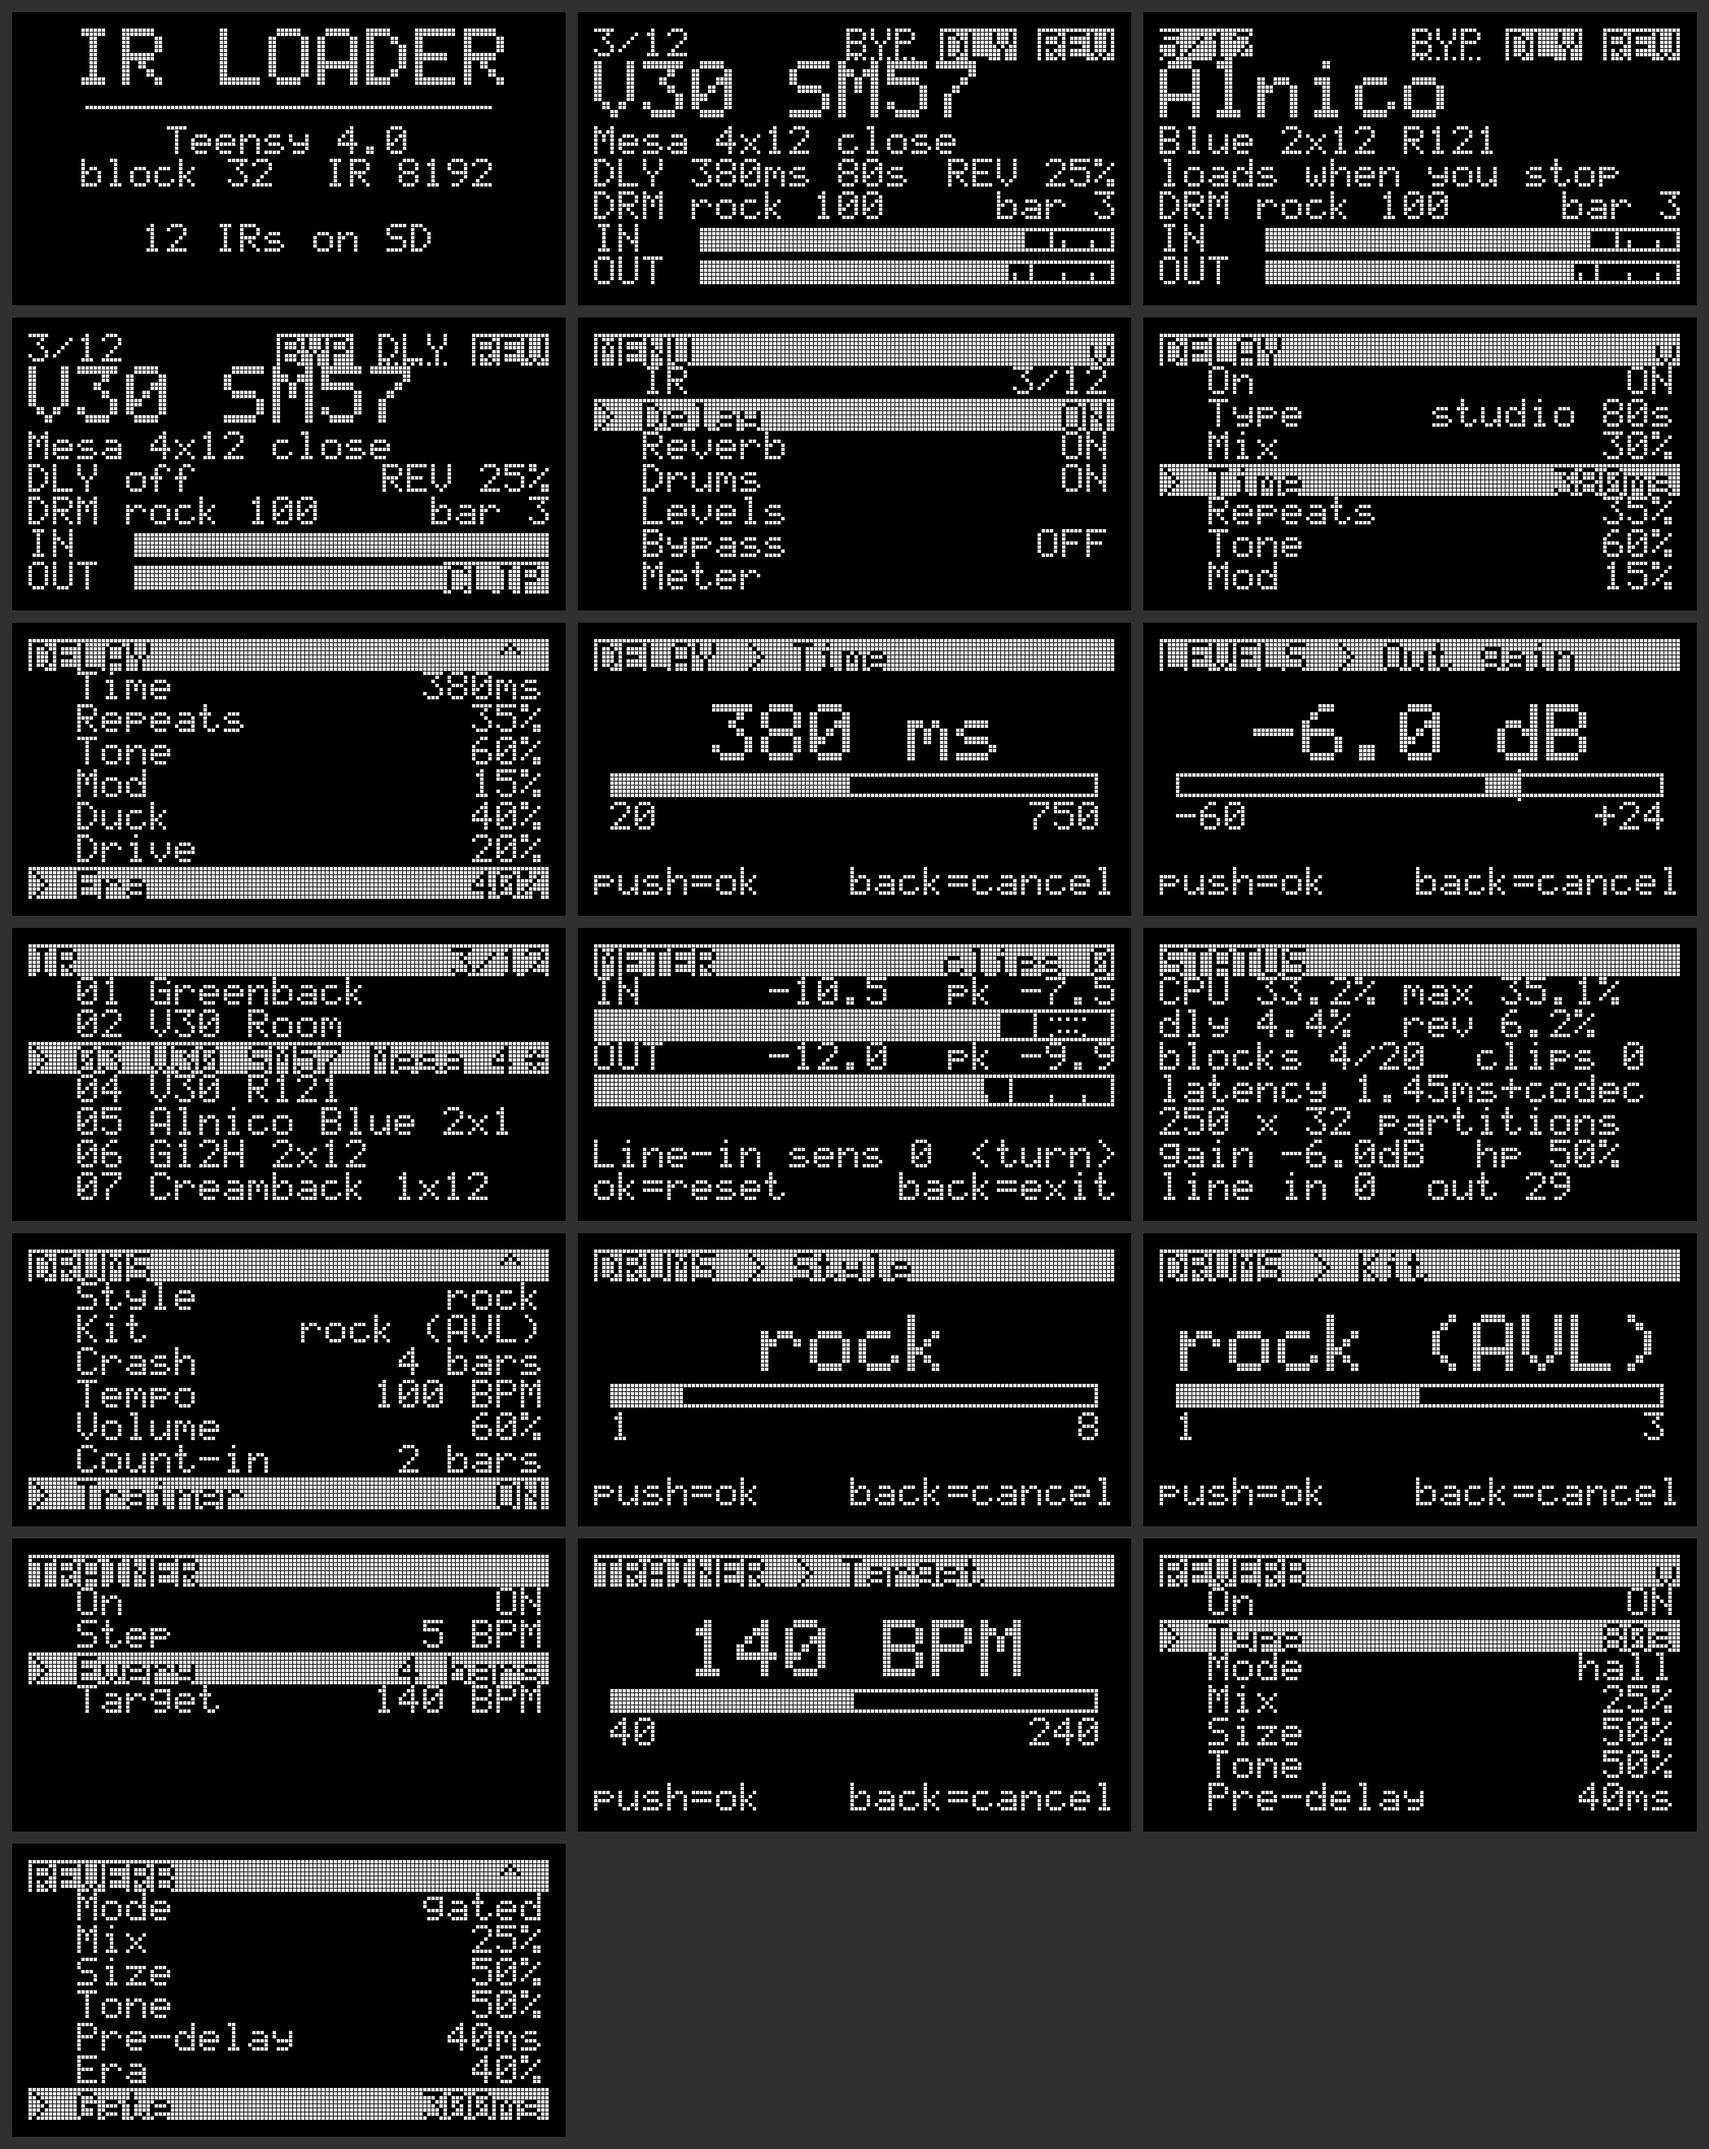
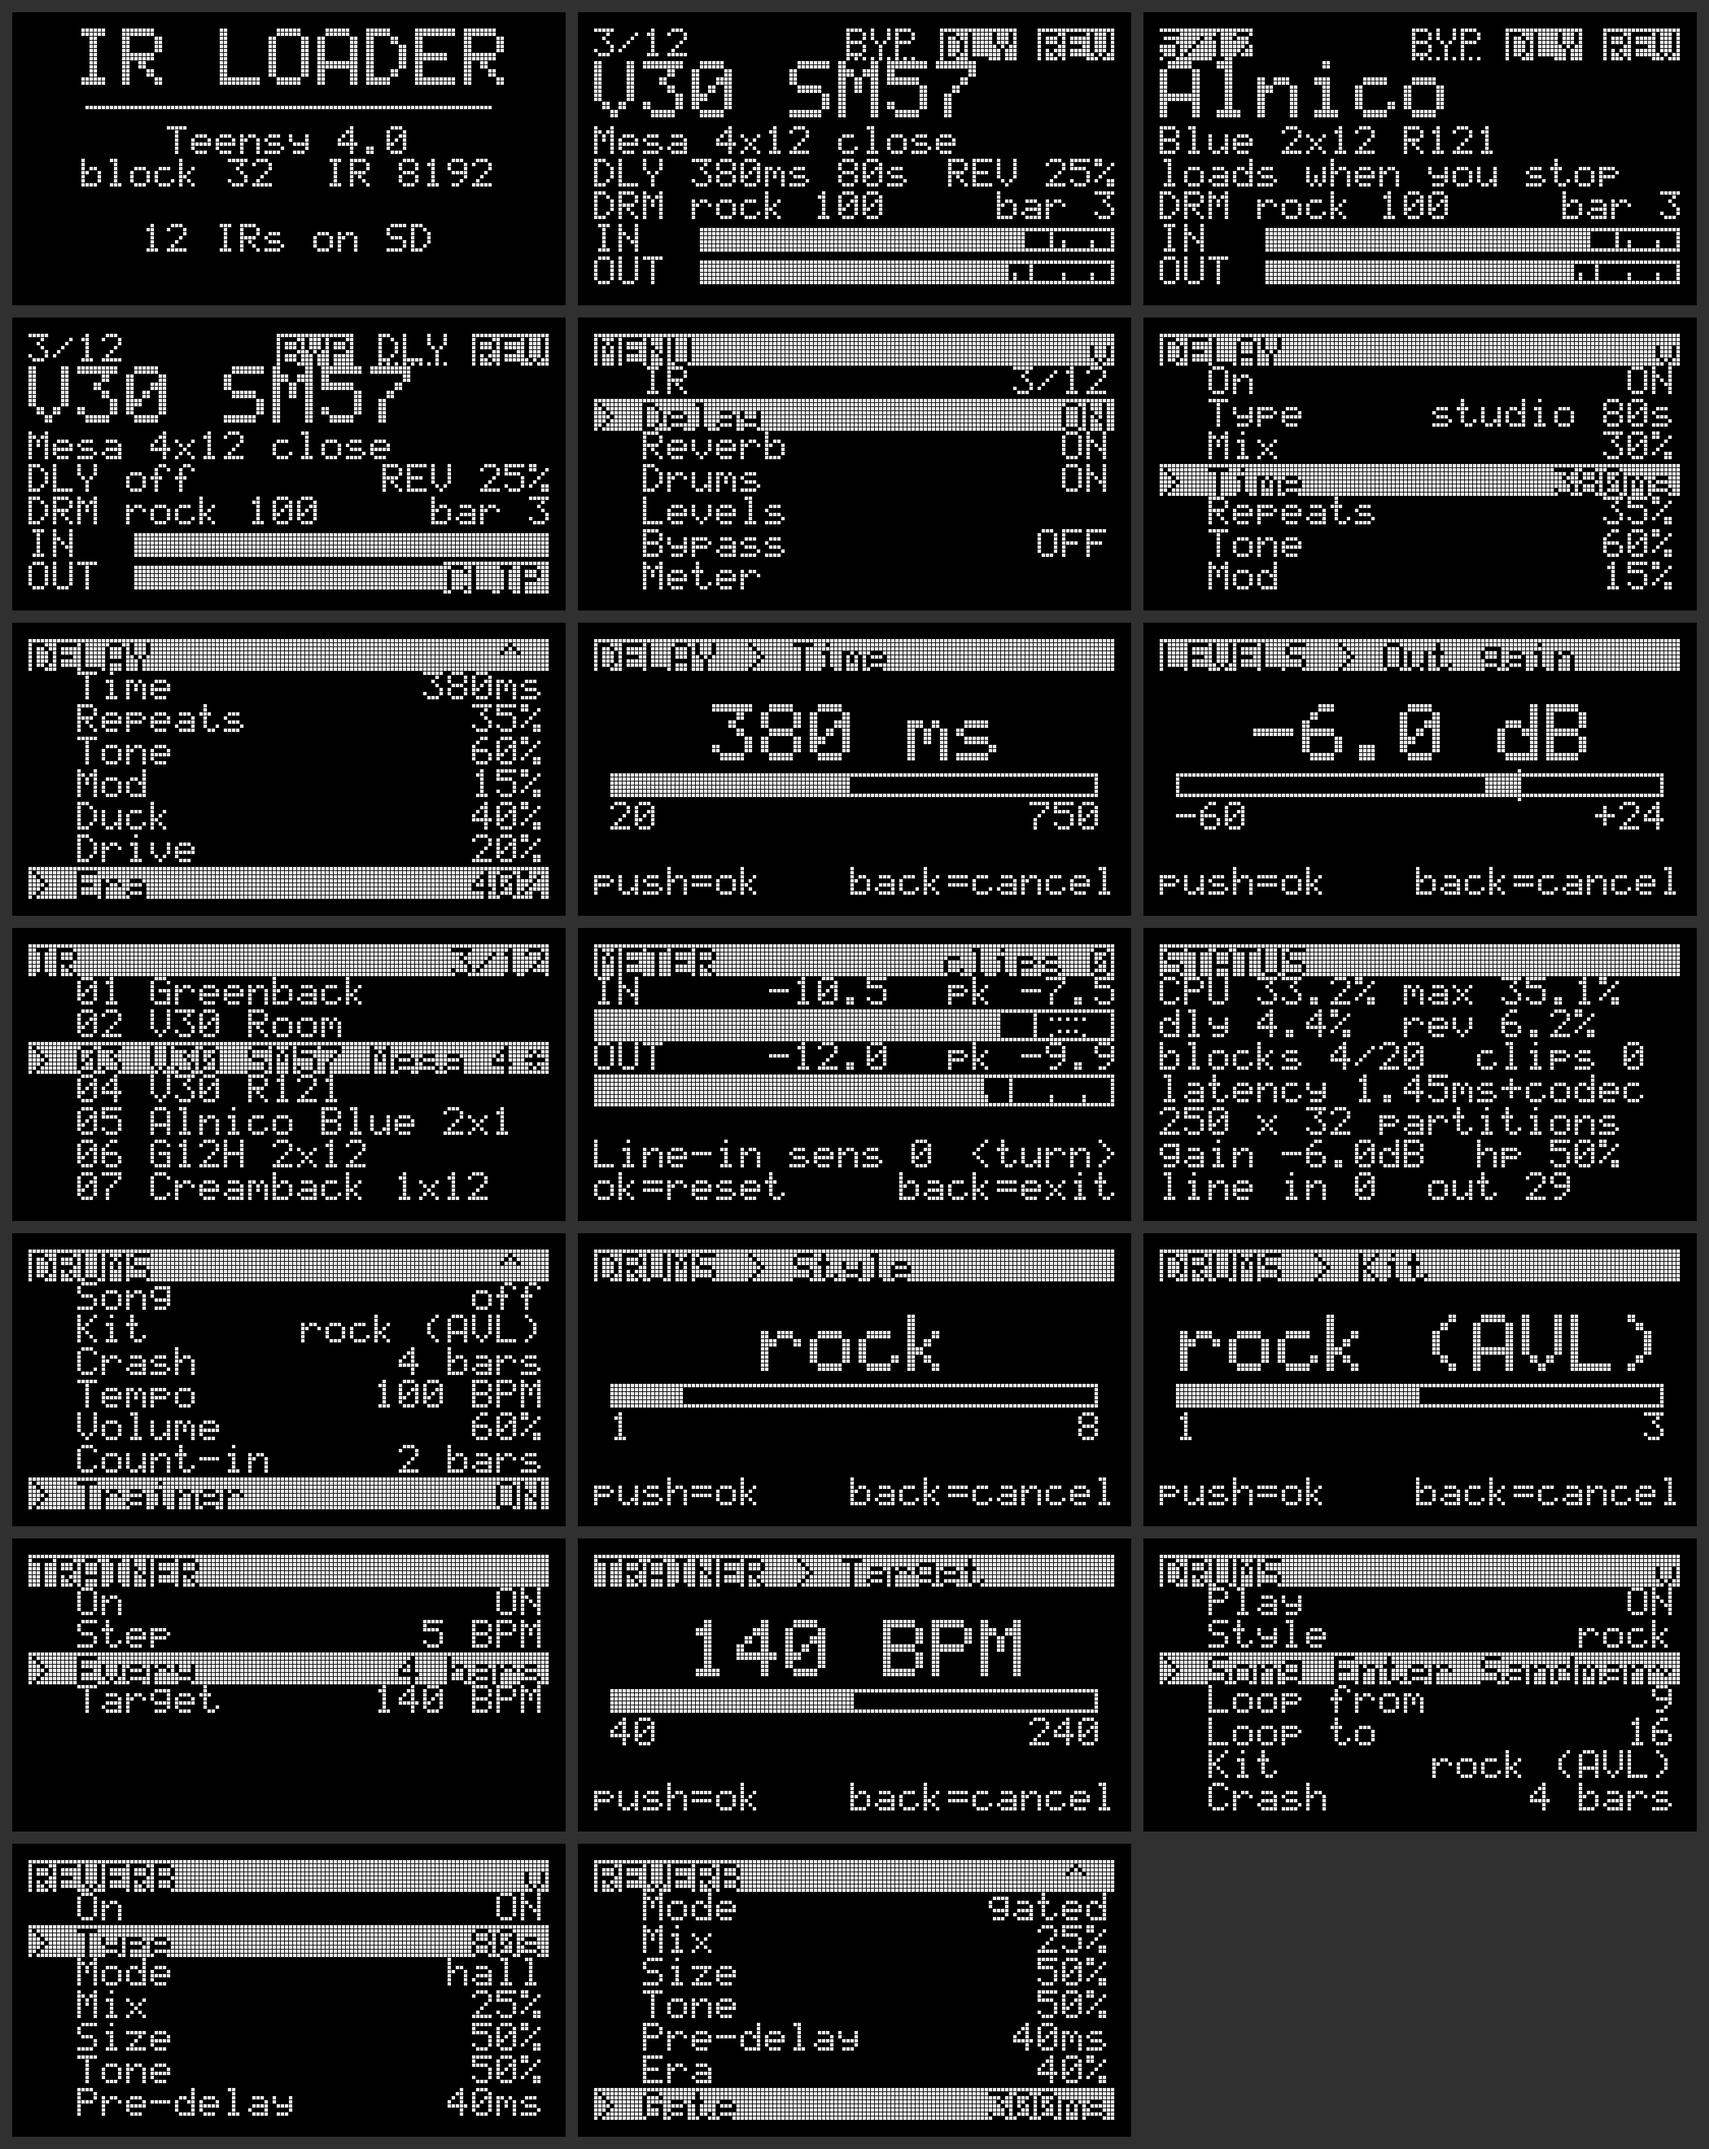
Add Song and Loop rows to the OLED Drums page
Song (off or a song, by name) after Style; Loop from / to (bars, from 0 =
off) shown only while a song is selected. List values too long for the
space after their label are cut short with a '~' (the editor shows them
in full). UI tests and render 19_menu_drums_song.

Changed region(s): [[0.0, 0.8438, 0.681, 1.0], [0.681, 0.7188, 0.9905, 0.8438]]

diff --git a/test/host/ui_fake.h b/test/host/ui_fake.h
@@ -18,6 +18,7 @@ struct FakeHost : ui::MenuHost {
     v[ui::kReverbOn] = 1; v[ui::kReverbMix] = 25; v[ui::kReverbSize] = 50; v[ui::kReverbTone] = 50;
     v[ui::kReverbType] = 1; v[ui::kReverbMode] = 0; v[ui::kReverbPreDelay] = 40; v[ui::kReverbMod] = 40;
     v[ui::kReverbEra] = 40; v[ui::kReverbGate] = 300;
+    v[ui::kDrumSong] = 0; v[ui::kDrumLoopFrom] = 0; v[ui::kDrumLoopTo] = 32;
     v[ui::kOutGain] = -12; v[ui::kLineIn] = 0; v[ui::kLineOut] = 29; v[ui::kHeadphones] = 50;
     v[ui::kDrumsPlay] = 1; v[ui::kDrumStyle] = 1; v[ui::kDrumTempo] = 100; v[ui::kDrumVolume] = 60;
     v[ui::kDrumCountIn] = 2; v[ui::kTrainerOn] = 0; v[ui::kTrainerStep] = 5; v[ui::kTrainerEvery] = 4;
@@ -28,6 +29,11 @@ struct FakeHost : ui::MenuHost {
                                   "triplets",  "pop",           "blues shuffle", "6/8 ballad"};
     return names[i < 0 || i > 7 ? 0 : i];
   }
+  static const char* songName(int i) {
+    static const char* names[] = {"off", "Back in Black-ish", "Sweet Child-ish", "Livin on a Prayer-ish",
+                                  "Enter Sandman-ish", "Smoke on Water-ish"};
+    return names[i < 0 || i > 5 ? 0 : i];
+  }
   static const char* kitName(int i) {
     static const char* names[] = {"synth", "rock (AVL)", "black pearl"};
     return names[i < 0 || i > 2 ? 0 : i];
@@ -37,6 +43,7 @@ struct FakeHost : ui::MenuHost {
     if (id == ui::kIsReverb80) return v[ui::kReverbType] == 1;
     if (id == ui::kIsReverbHall) return v[ui::kReverbType] == 1 && v[ui::kReverbMode] == 0;
     if (id == ui::kIsReverbGated) return v[ui::kReverbType] == 1 && v[ui::kReverbMode] == 1;
+    if (id == ui::kIsDrumSong) return v[ui::kDrumSong] != 0;
     return v[id];
   }
   void set(uint8_t id, int value) override { v[id] = value; sets++; }
@@ -45,11 +52,15 @@ struct FakeHost : ui::MenuHost {
     if (id == ui::kDelayTime) *hi = timeMax;
     if (id == ui::kDrumStyle) *hi = 7;
     if (id == ui::kDrumKit) *hi = 2;
+    if (id == ui::kDrumSong) *hi = 5;
+    if (id == ui::kDrumLoopFrom || id == ui::kDrumLoopTo) *hi = 32;
   }
   bool valueText(uint8_t id, char* buf, int n) override {
     if (id == ui::kScreenIR) std::snprintf(buf, n, "3/12");
     else if (id == ui::kDrumStyle) std::snprintf(buf, n, "%s", styleName(v[id]));
     else if (id == ui::kDrumKit) std::snprintf(buf, n, "%s", kitName(v[id]));
+    else if (id == ui::kDrumSong) std::snprintf(buf, n, "%s", songName(v[id]));
+    else if (id == ui::kDrumLoopFrom && v[id] == 0) std::snprintf(buf, n, "off");
     else return false;
     return true;
   }

diff --git a/lib/oledui/src/Menu.cpp b/lib/oledui/src/Menu.cpp
@@ -20,6 +20,9 @@ UI_LABEL(kLDrums, "Drums");
 UI_LABEL(kLPlay, "Play");
 UI_LABEL(kLStyle, "Style");
 UI_LABEL(kLKit, "Kit");
+UI_LABEL(kLSong, "Song");
+UI_LABEL(kLLoopFrom, "Loop from");
+UI_LABEL(kLLoopTo, "Loop to");
 UI_LABEL(kLCrash, "Crash");
 UI_LABEL(kLTempo, "Tempo");
 UI_LABEL(kLVolume, "Volume");
@@ -123,11 +126,15 @@ static const MenuItem UI_PROGMEM kLevelItems[] = {
     {kLPhones, K::kValue, kHeadphones, 0, 0, 100, 1, U::kPercent, kNoItem, nullptr},
 };
 
-// The style's and kit's range ends come from MenuHost::limits (how many
-// there are), their names from MenuHost::valueText.
+// The style's, kit's and song's range ends come from MenuHost::limits (how
+// many there are), their names from MenuHost::valueText; so do the loop's
+// bars (the song's length; "off" for from = 0).
 static const MenuItem UI_PROGMEM kDrumItems[] = {
     {kLPlay, K::kToggle, kDrumsPlay, 0, 0, 1, 1, U::kNone, kNoItem, nullptr},
     {kLStyle, K::kValue, kDrumStyle, 0, 0, 7, 1, U::kOneBased, kNoItem, nullptr},
+    {kLSong, K::kValue, kDrumSong, 0, 0, 5, 1, U::kNone, kNoItem, nullptr},
+    {kLLoopFrom, K::kValue, kDrumLoopFrom, 0, 0, 32, 1, U::kNone, kIsDrumSong, nullptr},
+    {kLLoopTo, K::kValue, kDrumLoopTo, 0, 1, 32, 1, U::kNone, kIsDrumSong, nullptr},
     {kLKit, K::kValue, kDrumKit, 0, 0, 2, 1, U::kOneBased, kNoItem, nullptr},
     {kLCrash, K::kChoice, kDrumCrash, 0, 0, 4, 1, U::kNone, kNoItem, kCrashNames},
     {kLTempo, K::kValue, kDrumTempo, 0, 40, 240, 1, U::kBpm, kNoItem, nullptr},
@@ -366,7 +373,16 @@ UI_COLD void Menu::drawList(Canvas& c) {
     } else {
       val[0] = 0;
     }
-    if (val[0]) c.textRight(Canvas::kW - 2, page, val);
+    if (val[0]) {
+      // A value too long for the space after the label is cut short with a
+      // '~' (the editor shows it in full).
+      const int room = (Canvas::kW - 2 - (12 + Canvas::width(it->label) + Canvas::kCharW)) / Canvas::kCharW;
+      if (room > 1 && (int)strlen(val) > room) {
+        val[room - 1] = '~';
+        val[room] = 0;
+      }
+      c.textRight(Canvas::kW - 2, page, val);
+    }
     if (n == lv.cursor) c.invertPage(page);
   }
 }

diff --git a/test/host/test_ui.cpp b/test/host/test_ui.cpp
@@ -136,6 +136,37 @@ static void testReverbPage() {
   check(h.v[ui::kReverbType] == 1 && m.current()->id == ui::kReverbType, "push on Type: plate -> 80s", h.v[ui::kReverbType]);
 }
 
+static void testSongRows() {
+  std::printf("Drums page: songs\n");
+  FakeHost h;
+  ui::Menu m(ui::menuPages(), h);
+  m.open();
+  m.turn(3, 0);
+  m.push();
+  m.turn(2, 0);
+  check(m.current()->id == ui::kDrumSong, "Song after Style", m.current()->id);
+  m.turn(1, 0);
+  check(m.current()->id == ui::kDrumKit, "  ... no song: the Loop rows are hidden", m.current()->id);
+  m.turn(-1, 0);
+  m.push();
+  m.turn(4, 1000);
+  m.push();
+  check(h.v[ui::kDrumSong] == 4, "  ... pick song 4 by turning", h.v[ui::kDrumSong]);
+  m.turn(1, 0);
+  check(m.current()->id == ui::kDrumLoopFrom, "  ... with a song: Loop from, Loop to", m.current()->id);
+  char b[24];
+  h.valueText(ui::kDrumLoopFrom, b, sizeof(b));
+  check(!std::strcmp(b, "off"), "  ... Loop from 0 reads off", 0);
+  m.push();
+  m.turn(9, 1000);
+  m.push();
+  m.turn(1, 0);
+  m.push();
+  m.turn(-16, 2000);
+  m.push();
+  check(h.v[ui::kDrumLoopFrom] == 9 && h.v[ui::kDrumLoopTo] == 16, "  ... loop bars 9-16", h.v[ui::kDrumLoopTo]);
+}
+
 static void testDrumsPage() {
   std::printf("Drums page\n");
   FakeHost h;
@@ -170,8 +201,8 @@ static void testDrumsPage() {
   check(h.v[ui::kDrumStyle] == 7, "  ... up to the last style (MenuHost::limits)", h.v[ui::kDrumStyle]);
   m.back();
   check(h.v[ui::kDrumStyle] == 1, "  ... back restores rock", h.v[ui::kDrumStyle]);
-  m.turn(1, 0);
-  check(m.current()->id == ui::kDrumKit, "Kit after Style", m.current()->id);
+  m.turn(2, 0);
+  check(m.current()->id == ui::kDrumKit, "Kit after Style and Song", m.current()->id);
   m.push();
   m.turn(5, 1000);
   check(h.v[ui::kDrumKit] == 2, "  ... kit range from MenuHost::limits (3 kits)", h.v[ui::kDrumKit]);
@@ -268,6 +299,7 @@ int main() {
   testMenu();
   testReverbPage();
   testDrumsPage();
+  testSongRows();
   testFormat();
   testMeter();
   testCanvas();

diff --git a/lib/oledui/src/Menu.h b/lib/oledui/src/Menu.h
@@ -33,6 +33,8 @@ enum ItemId : uint8_t {
   kLineIn, kLineOut, kHeadphones,
   kBypass,
   kDrumsPlay, kDrumStyle, kDrumKit,
+  kDrumSong,                 // 0 = off (the style), else 1-based
+  kDrumLoopFrom, kDrumLoopTo,  // bars of the song; from 0 = no loop
   kDrumCrash,  // 0 off, 1..4 = every 2, 4, 8, 16 bars
   kDrumTempo, kDrumVolume, kDrumCountIn,
   kTrainerOn, kTrainerStep, kTrainerEvery, kTrainerTarget,
@@ -41,6 +43,7 @@ enum ItemId : uint8_t {
   kIsReverb80,     // 1 when the reverb type is 80s
   kIsReverbHall,   // 1 when it is the 80s hall
   kIsReverbGated,  // 1 when it is the 80s gated reverb
+  kIsDrumSong,     // 1 when a drum song is selected
   // Screens opened from the menu (their row shows MenuHost::valueText).
   kScreenIR, kScreenMeter, kScreenStatus,
 };
@@ -85,7 +88,8 @@ class MenuHost {
   // Overrides an item's range (e.g. the delay time's maximum from config.h).
   virtual void limits(uint8_t id, int* lo, int* hi) { (void)id; (void)lo; (void)hi; }
   // Value text instead of the number, for kScreen rows ("3/12" next to IR)
-  // and named values (drum style and kit). Returns false to use the number.
+  // and named values (drum style, kit, song, loop bars). Returns false to use
+  // the number.
   virtual bool valueText(uint8_t id, char* buf, int n) { (void)id; (void)buf; (void)n; return false; }
 
  protected:

diff --git a/test/host/render_ui.cpp b/test/host/render_ui.cpp
@@ -132,16 +132,16 @@ int main(int argc, char** argv) {
   snap("11_status");
 
   host.v[ui::kTrainerOn] = 1;
-  menu.open(); menu.turn(3, 0); menu.push(); menu.turn(7, 0);  // Drums > Trainer
+  menu.open(); menu.turn(3, 0); menu.push(); menu.turn(8, 0);  // Drums > Trainer
   menu.draw(c);
   snap("12_menu_drums");
 
-  menu.turn(-6, 0); menu.push();  // Style
+  menu.turn(-7, 0); menu.push();  // Style
   menu.draw(c);
   snap("13_edit_drum_style");
   menu.back();
 
-  menu.turn(1, 0); menu.push();  // Kit
+  menu.turn(2, 0); menu.push();  // Kit (after Song)
   menu.draw(c);
   snap("16_edit_drum_kit");
   menu.back();
@@ -153,6 +153,16 @@ int main(int argc, char** argv) {
   menu.turn(1, 0); menu.push();  // Target
   menu.draw(c);
   snap("15_edit_trainer_target");
+
+  host.v[ui::kDrumSong] = 4;
+  host.v[ui::kDrumLoopFrom] = 9;
+  host.v[ui::kDrumLoopTo] = 16;
+  menu.open(); menu.turn(3, 0); menu.push(); menu.turn(2, 0);  // Drums > Song
+  menu.draw(c);
+  snap("19_menu_drums_song");
+  host.v[ui::kDrumSong] = 0;
+  host.v[ui::kDrumLoopFrom] = 0;
+  host.v[ui::kDrumLoopTo] = 32;
 
   menu.open(); menu.turn(2, 0); menu.push(); menu.turn(1, 0);  // Reverb > Type (80s hall)
   menu.draw(c);
